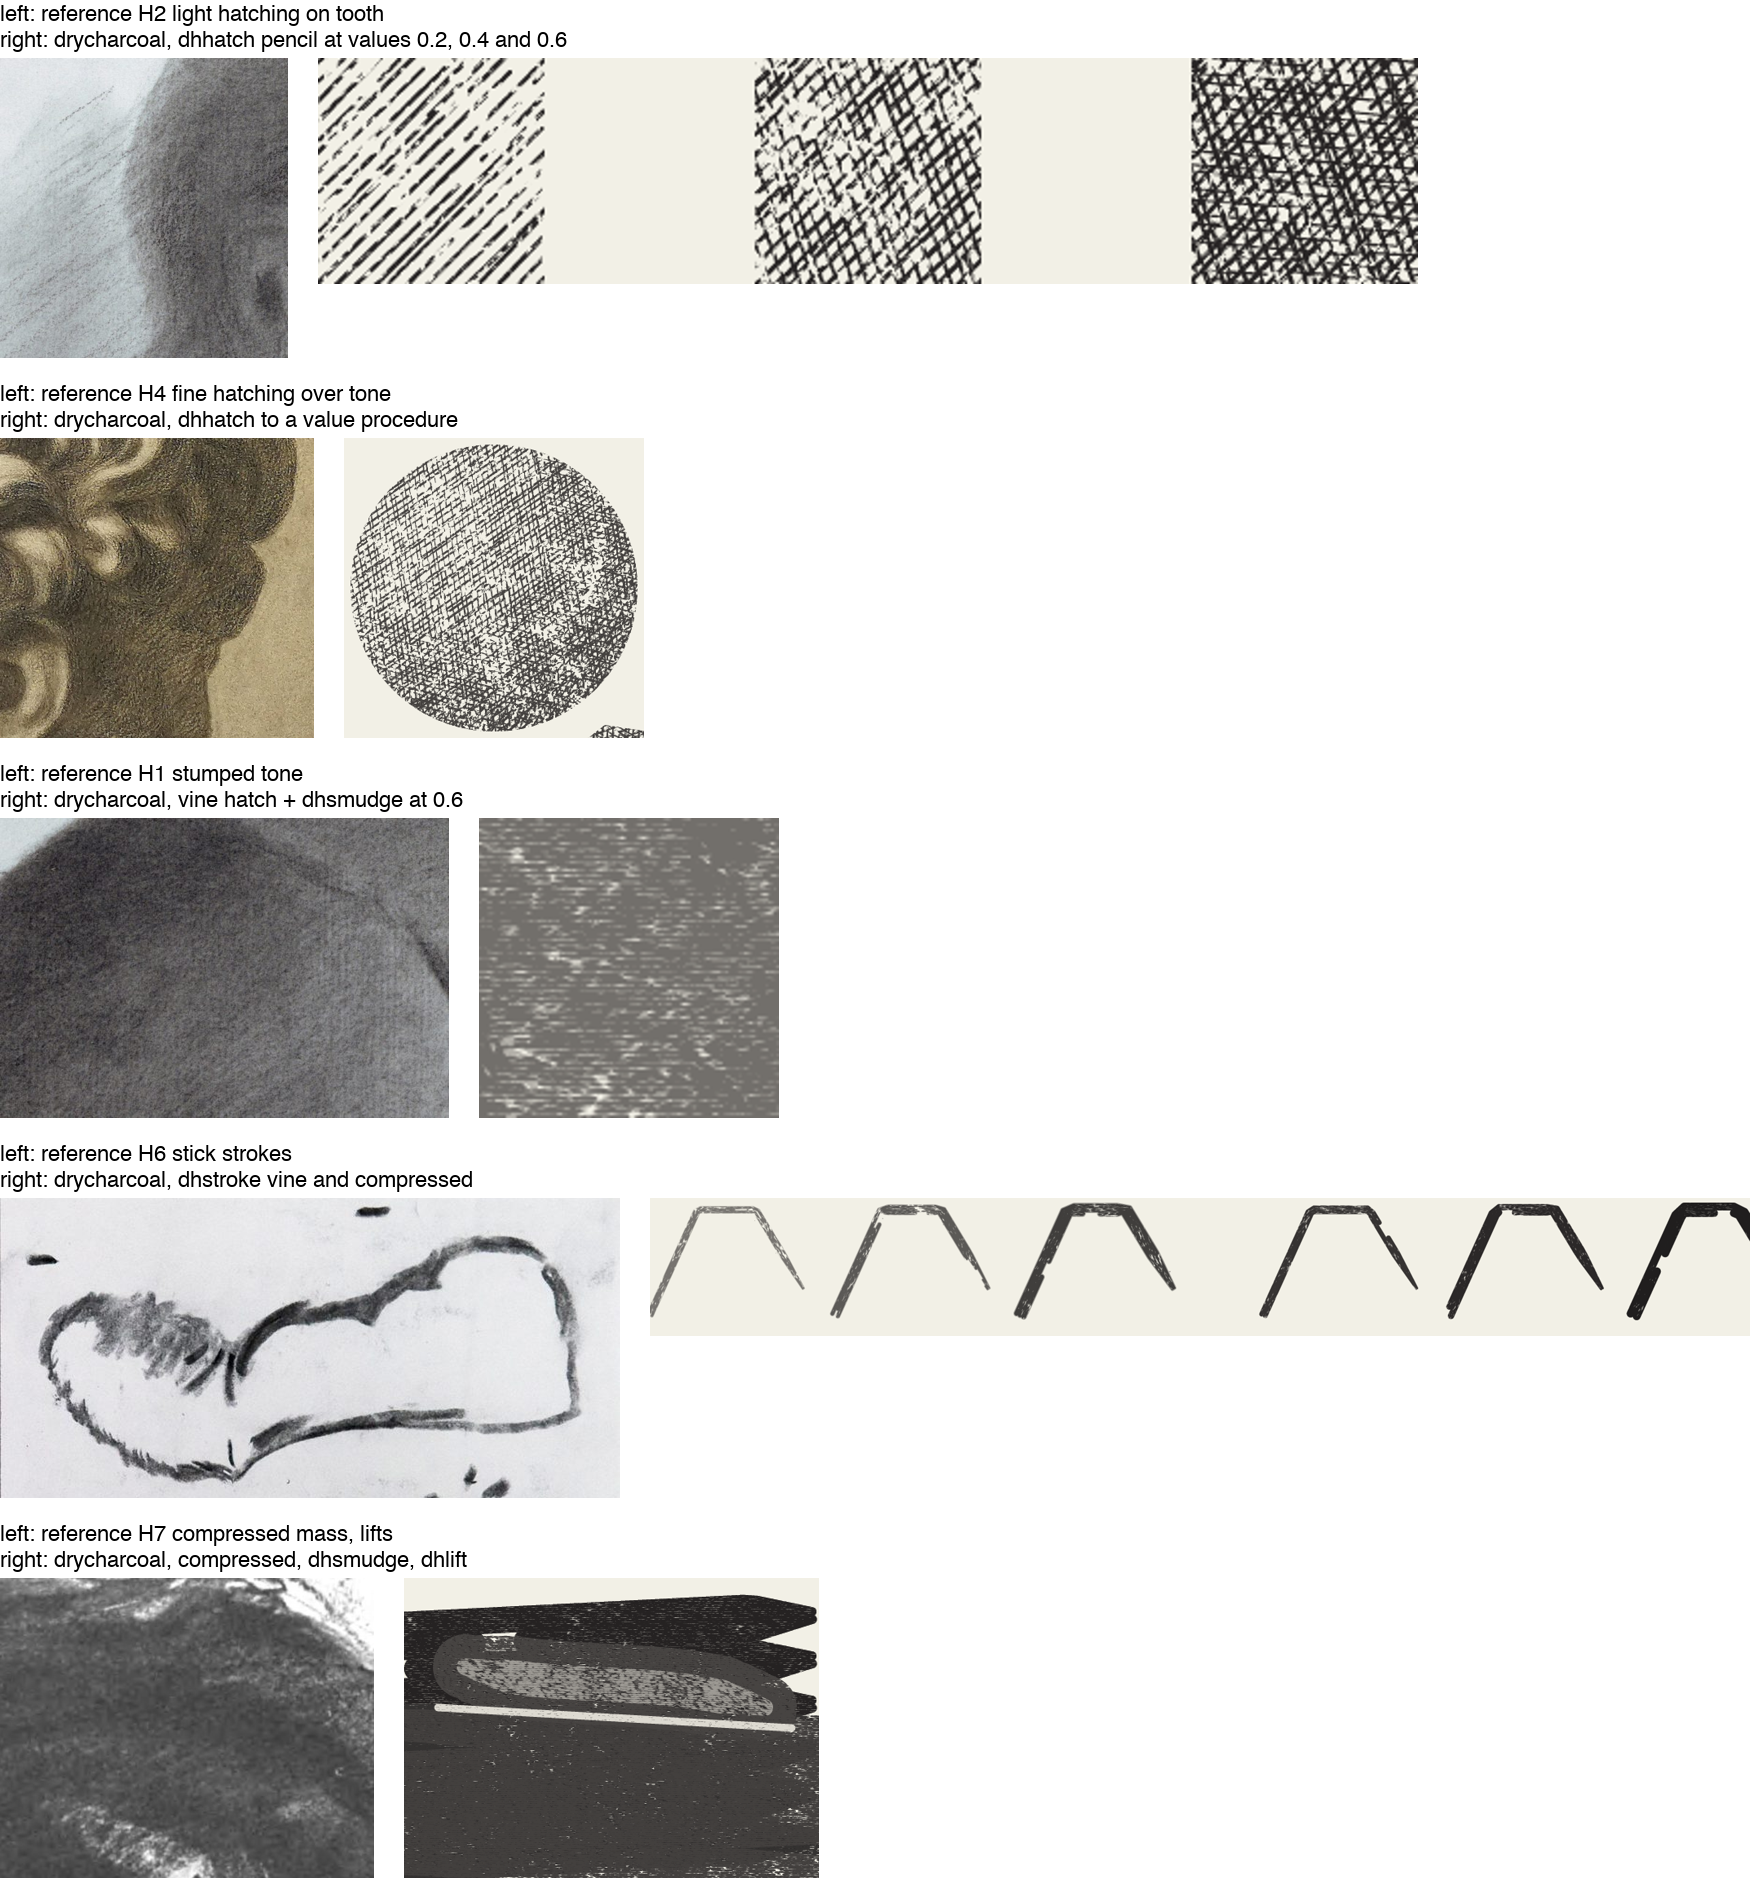
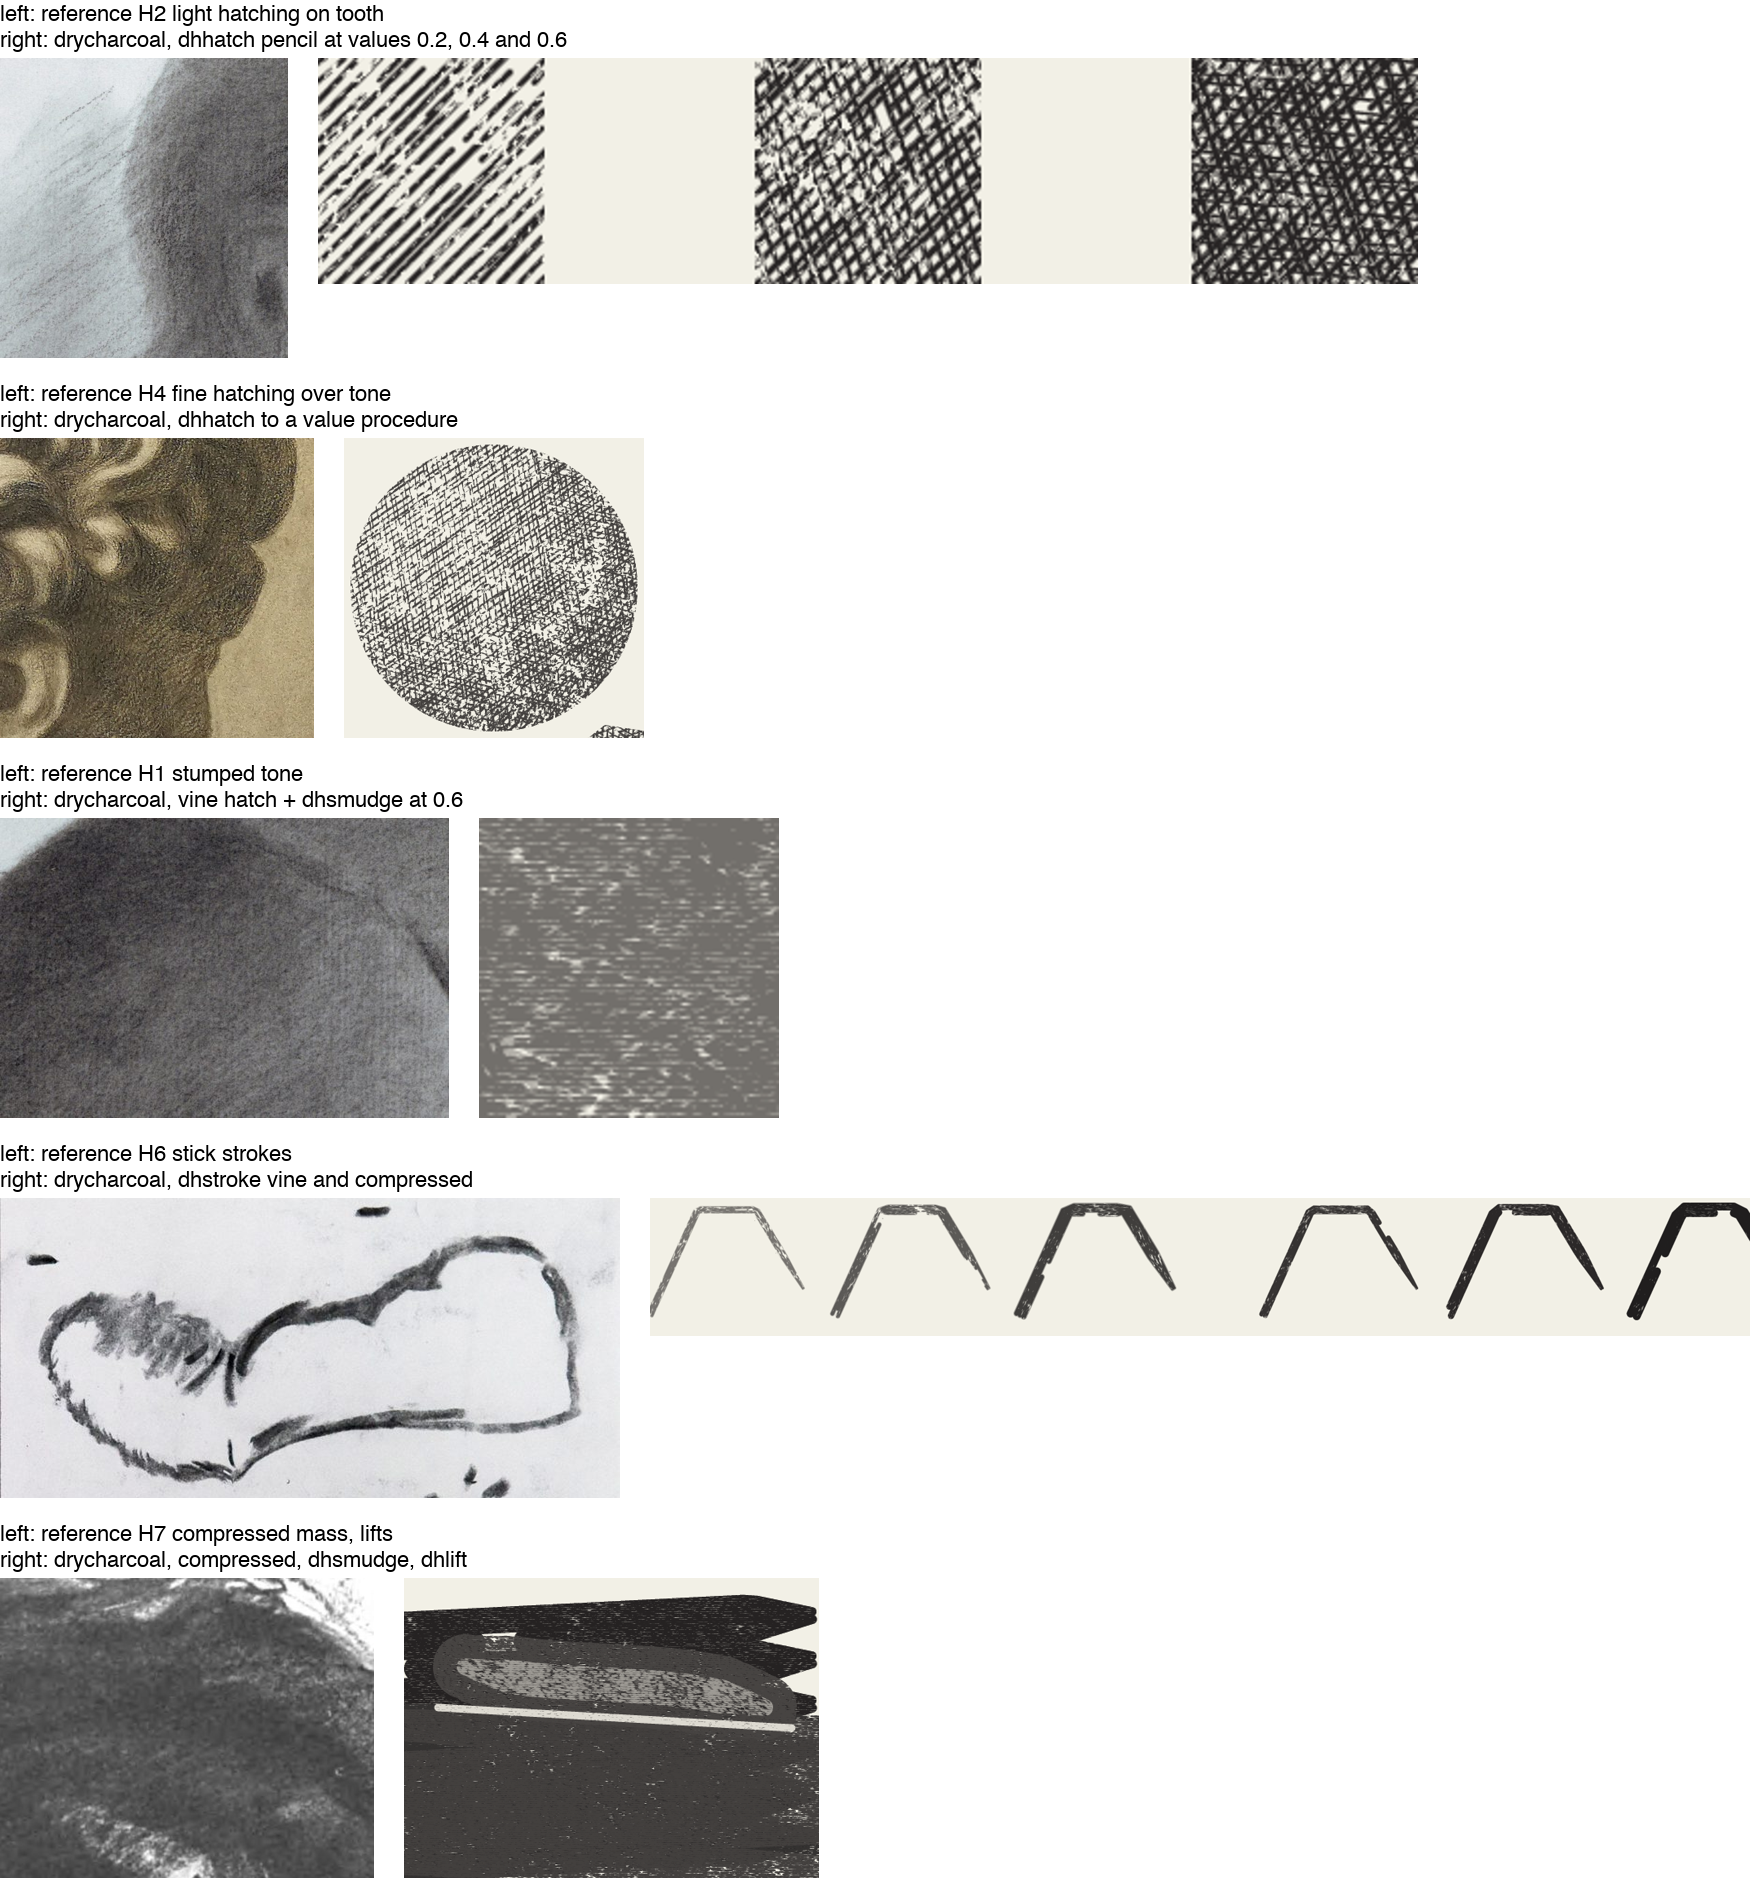
drycharcoal: give back every gsave on a bad pass-through key; hatched scale reaches the darks; wording (#241)
Claude-Session: https://claude.ai/code/session_01GTbCLDB6QC7UV1i7qukUEL

Changed region(s): [[0.6789, 0.0311, 0.8331, 0.1553], [0.432, 0.0311, 0.5554, 0.1553], [0.1851, 0.0311, 0.3086, 0.1553]]

diff --git a/tests/drycharcoal.rs b/tests/drycharcoal.rs
@@ -66,14 +66,15 @@ fn cell(x: u32, y: u32, s: u32) -> String {
     format!("newpath {x} {y} moveto {s} 0 rlineto 0 {s} rlineto -{s} 0 rlineto closepath")
 }
 
-/// The hatching value scale: every step darker than the last, from paper
-/// at 0 to well into the darks at 1.
+/// The hatching value scale, as the specimen draws it (soft pencil, two
+/// deposit levels): every step darker than the last, from paper at 0 to
+/// near the pigment at 1.
 #[test]
 fn hatching_builds_a_value_scale() {
     let mut src = String::new();
     for i in 0..6 {
         src.push_str(&format!(
-            "{} << /Value {} /Seed {i} /Medium /pencil /Grade 1 /Layers 4 >> dhhatch ",
+            "{} << /Value {} /Seed {i} /Medium /pencil /Grade 1 /Layers 4 /Levels 2 >> dhhatch ",
             cell(4 + i * 34, 4, 30),
             f64::from(i) / 5.0
         ));
@@ -89,10 +90,7 @@ fn hatching_builds_a_value_scale() {
     for w in steps.windows(2) {
         assert!(w[1] < w[0] - 5.0, "the scale is not monotone: {steps:?}");
     }
-    assert!(
-        steps[0] - steps[5] > 120.0,
-        "the scale spans too little: {steps:?}"
-    );
+    assert!(steps[5] < 70.0, "the darkest step is not dark: {steps:?}");
 }
 
 /// The smudging scale (a light hatch, then a stump to each value), as in
@@ -440,7 +438,8 @@ fn ghostscript_accepts_a_packed_value_procedure() {
              true setpacking\n\
              /v {{ pop 50 div }} def\n\
              /v load type /packedarraytype ne {{ /not_packed undefined }} if\n\
-             {} << /Value /v load /Layers 2 >> dhhatch\n\
+             {} << /Value /v load /Layers 2 /Seed 999999 >> dhhatch\n\
+             newpath 0 0 moveto 50 50 lineto << /Seed -999999 >> dhsketch\n\
              false setpacking showpage\n",
             libs_source(),
             cell(0, 0, 50)

diff --git a/notes/241-drycharcoal.md b/notes/241-drycharcoal.md
@@ -36,10 +36,15 @@ takes a draw from the caller's `rand`:
   other cuts). Crossing layers build the tone that a second level would.
 - **Batches and clips.** The region is clipped and the batch closes inside that clip,
   because a batch renders under the clip in force at its end. So `dhhatch` refuses to
-  run inside a caller's `dkbatch`, and two `dhhatch` calls over the same area grey
-  each other's crossings. `tests/drycharcoal.rs::one_call_keeps_crossings_dark`
+  run inside a caller's `dkbatch`, and at `/Levels 2` or more two `dhhatch` calls over
+  the same area grey each other's crossings. At the default one level there is no
+  faint level, and two calls draw as one. `tests/drycharcoal.rs::one_call_keeps_crossings_dark`
   measures it at two levels: one call gives mean luma 125.9, two calls 137.1. Filed
   as #312: per-record clips in `dkbatch`.
+- **A malformed key passed through to `dkstroke`** (for example `/Levels 9`) fails
+  inside hatch's `gsave` and ours. The hook catches it, stops drawing, and re-raises
+  after both are closed. `dhsmudge`, `dhlift` and `dhsketch` give back their `gsave`
+  the same way. Self-tests pin each case (the advisor's implementation review).
 - **A `/Value` procedure that returns a non-number** raises
   `dhhatch-value-procedure-must-return-a-number` after the batch closes. Raising from
   inside `hatch` left two `gsave`s open.
@@ -77,13 +82,14 @@ patches several points across, which reads as blotches. The specimen and tests u
 relief is a Q4 trade-off for the maintainer.
 
 **Measured** (CPU `user`, release pscat `--dpi 144`, gs 10.07.1 `-r144`, libraries
-concatenated for gs's `-dSAFER`). The machine's load average was 6–12 throughout. The
-drykit specimen, recorded at 7.5 s in #234, measured 7.9–11.75 s here at the same
-time, so the numbers below are inflated by up to about 1.5×.
+concatenated for gs's `-dSAFER`). The machine's load average was 4–12 during this work; the
+drykit specimen (7.5 s in #234) measured 7.7–11.75 s here, so the earlier
+numbers below are inflated by up to about 1.5×. The final specimen run was at
+load 4, with the drykit specimen at 7.7 s.
 
 | Piece | pscat | gs | Budget |
 |---|---|---|---|
-| `examples/drycharcoal_specimen.ps` | 8.5–9.8 s (drykit specimen 11.75 s alongside) | 6.3–7.3 s | 10 s |
+| `examples/drycharcoal_specimen.ps` (final, after the rebase) | 8.7 s, twice; the drykit specimen measured 7.7 s alongside (7.5 s in #234) | 6.4 s, twice | 10 s |
 | `dhhatch`, 120 × 120 pt, value 1, one layer / four layers | 1.3 s / 4.0 s | | |
 | slowest CI test render, 40 × 40 pt at four layers (`--profile ci`, file in parallel) | 0.74 s | | 2 s |
 | `tests/drycharcoal.rs`, whole file (`--profile ci`) | 6.4 s | | 30 s for all drykit tests |
@@ -93,8 +99,8 @@ time, so the numbers below are inflated by up to about 1.5×.
   #242's portrait should budget its hatched area with this.
 - **An earlier specimen layout took 42 s.** It hatched about 66k pt²·layers and drew
   vine first. Cells and the sphere were shrunk to fit.
-- **Ghostscript slows after `scatter`.** Every call after a first artkit `scatter`
-  runs about 2× slower in gs (12.3 s against 6.3 s for this specimen, by drawing
+- **Ghostscript slows after `scatter`.** drykit work after a first artkit `scatter`
+  runs about 2× slower in gs (a plain integer loop or a `pjheight` loop barely slows) (12.3 s against 6.3 s for this specimen, by drawing
   order alone; `-dNOGC` 7.7 s). Vine's fallout calls `scatter`, so the specimen
   draws its vine strokes last. Filed as #311, not root-caused.
 - **A fresh options dict per hatch stroke** was suspected of feeding that GC cost.
@@ -102,7 +108,8 @@ time, so the numbers below are inflated by up to about 1.5×.
   copies the values it needs into its record.
 
 **Tests** (`tests/drycharcoal.rs`, 11):
-- the two value scales are monotone (hatching 239 → 80, smudging 239 → 55 luma);
+- the two value scales are monotone and reach the darks. Hatching runs 239 → 61 luma
+  at two deposit levels (one level stops at 80, a dark grey). Smudging runs 239 → 55;
 - a `/Value` ramp shades across its region;
 - one call keeps crossings darker than two;
 - a kneaded lift is grey and never paper, and a hard eraser is lighter along its line;
@@ -112,7 +119,8 @@ time, so the numbers below are inflated by up to about 1.5×.
   and tested sets are equal;
 - the CI budget smoke test;
 - two real-gs tests, run locally only: a packed `/Value` procedure under
-  `true setpacking` is accepted, and pscat and gs agree on a hatched region.
+  `true setpacking` is accepted (with `/Seed ±999999`, the guard's bound), and pscat
+  and gs agree on a hatched region.
 
 Self-tests cover the guards, the no-draws rule for all five procedures (`dhhatch`
 with default options included), and the refusal inside a `dkbatch`.

diff --git a/.claude/skills/psart/SKILL.md b/.claude/skills/psart/SKILL.md
@@ -333,7 +333,8 @@ newpath 40 40 moveto 200 80 lineto << /Touch 0.7 >> dycrayon
   `{x y -> value}`): up to `/Layers` crossing layers of hand strokes, all in
   one `dkbatch` so crossings stay dark. It clips to the region and cannot run
   inside a `dkbatch`. Hatch a region's layers in **one** call: two calls are
-  two batches, and the second one's faint level greys the first's crossings.
+  two batches, and at `/Levels 2` or more the second one's faint level greys
+  the first's crossings.
 - `opts dhsmudge` — the path is a stump's track: a wide, soft stroke that
   fills the tooth, leaving `/Value` between paper and the current colour.
   drykit cannot read the page, so give `/Under` (the tone beneath) when it
@@ -346,8 +347,8 @@ newpath 40 40 moveto 200 80 lineto << /Touch 0.7 >> dycrayon
 - None of them draws from your `rand` stream. **Cost:** hatching costs about
   0.07 ms per square point per layer in release pscat at 2x (a 120 x 120 pt
   square is 1.3 s at one layer, 4 s at four), so keep hatched areas modest.
-  In Ghostscript, any `scatter` (vine charcoal's fallout) makes everything
-  after it slower, so draw vine strokes late.
+  In Ghostscript, any `scatter` (vine charcoal's fallout) makes the drykit
+  work after it about 2x slower (#311), so draw vine strokes late.
   `examples/drycharcoal_specimen.ps` shows all of it.
 
 ## Style packs (`lib/styles/`, load after artkit)

diff --git a/HANDOFF.md b/HANDOFF.md
@@ -608,9 +608,10 @@ renders eight examples in both and compares block-downsampled output).
    #241 shipped `lib/drycharcoal.ps` (`dhstroke`, `dhhatch`, `dhsmudge`,
    `dhlift`, `dhsketch`; `notes/241-drycharcoal.md`). `dhhatch` lays lines
    through hatchkit's `/Mark` hook and inks every layer in one `dkbatch`
-   inside its own region clip, so it can't join a caller's batch (#312).
+   inside its own region clip, so it can't join a caller's batch, and at
+   `/Levels 2` two calls over one area grey each other's crossings (#312).
    Hatching costs about 0.07 ms per square point per layer in pscat. In gs,
-   anything after an artkit `scatter` (fallout) runs about 2x slower (#311).
+   drykit work after an artkit `scatter` (fallout) runs about 2x slower (#311).
    Slice G1 (#236) shipped `lib/strokeglyphs.ps`: skeleton glyphs as paths
    (`sgpath`, `sgwidth`, `sggrow`, `sgmetrics`). In its glyph data a point
    written twice is a sharp corner, and the midpoint rule never passes
